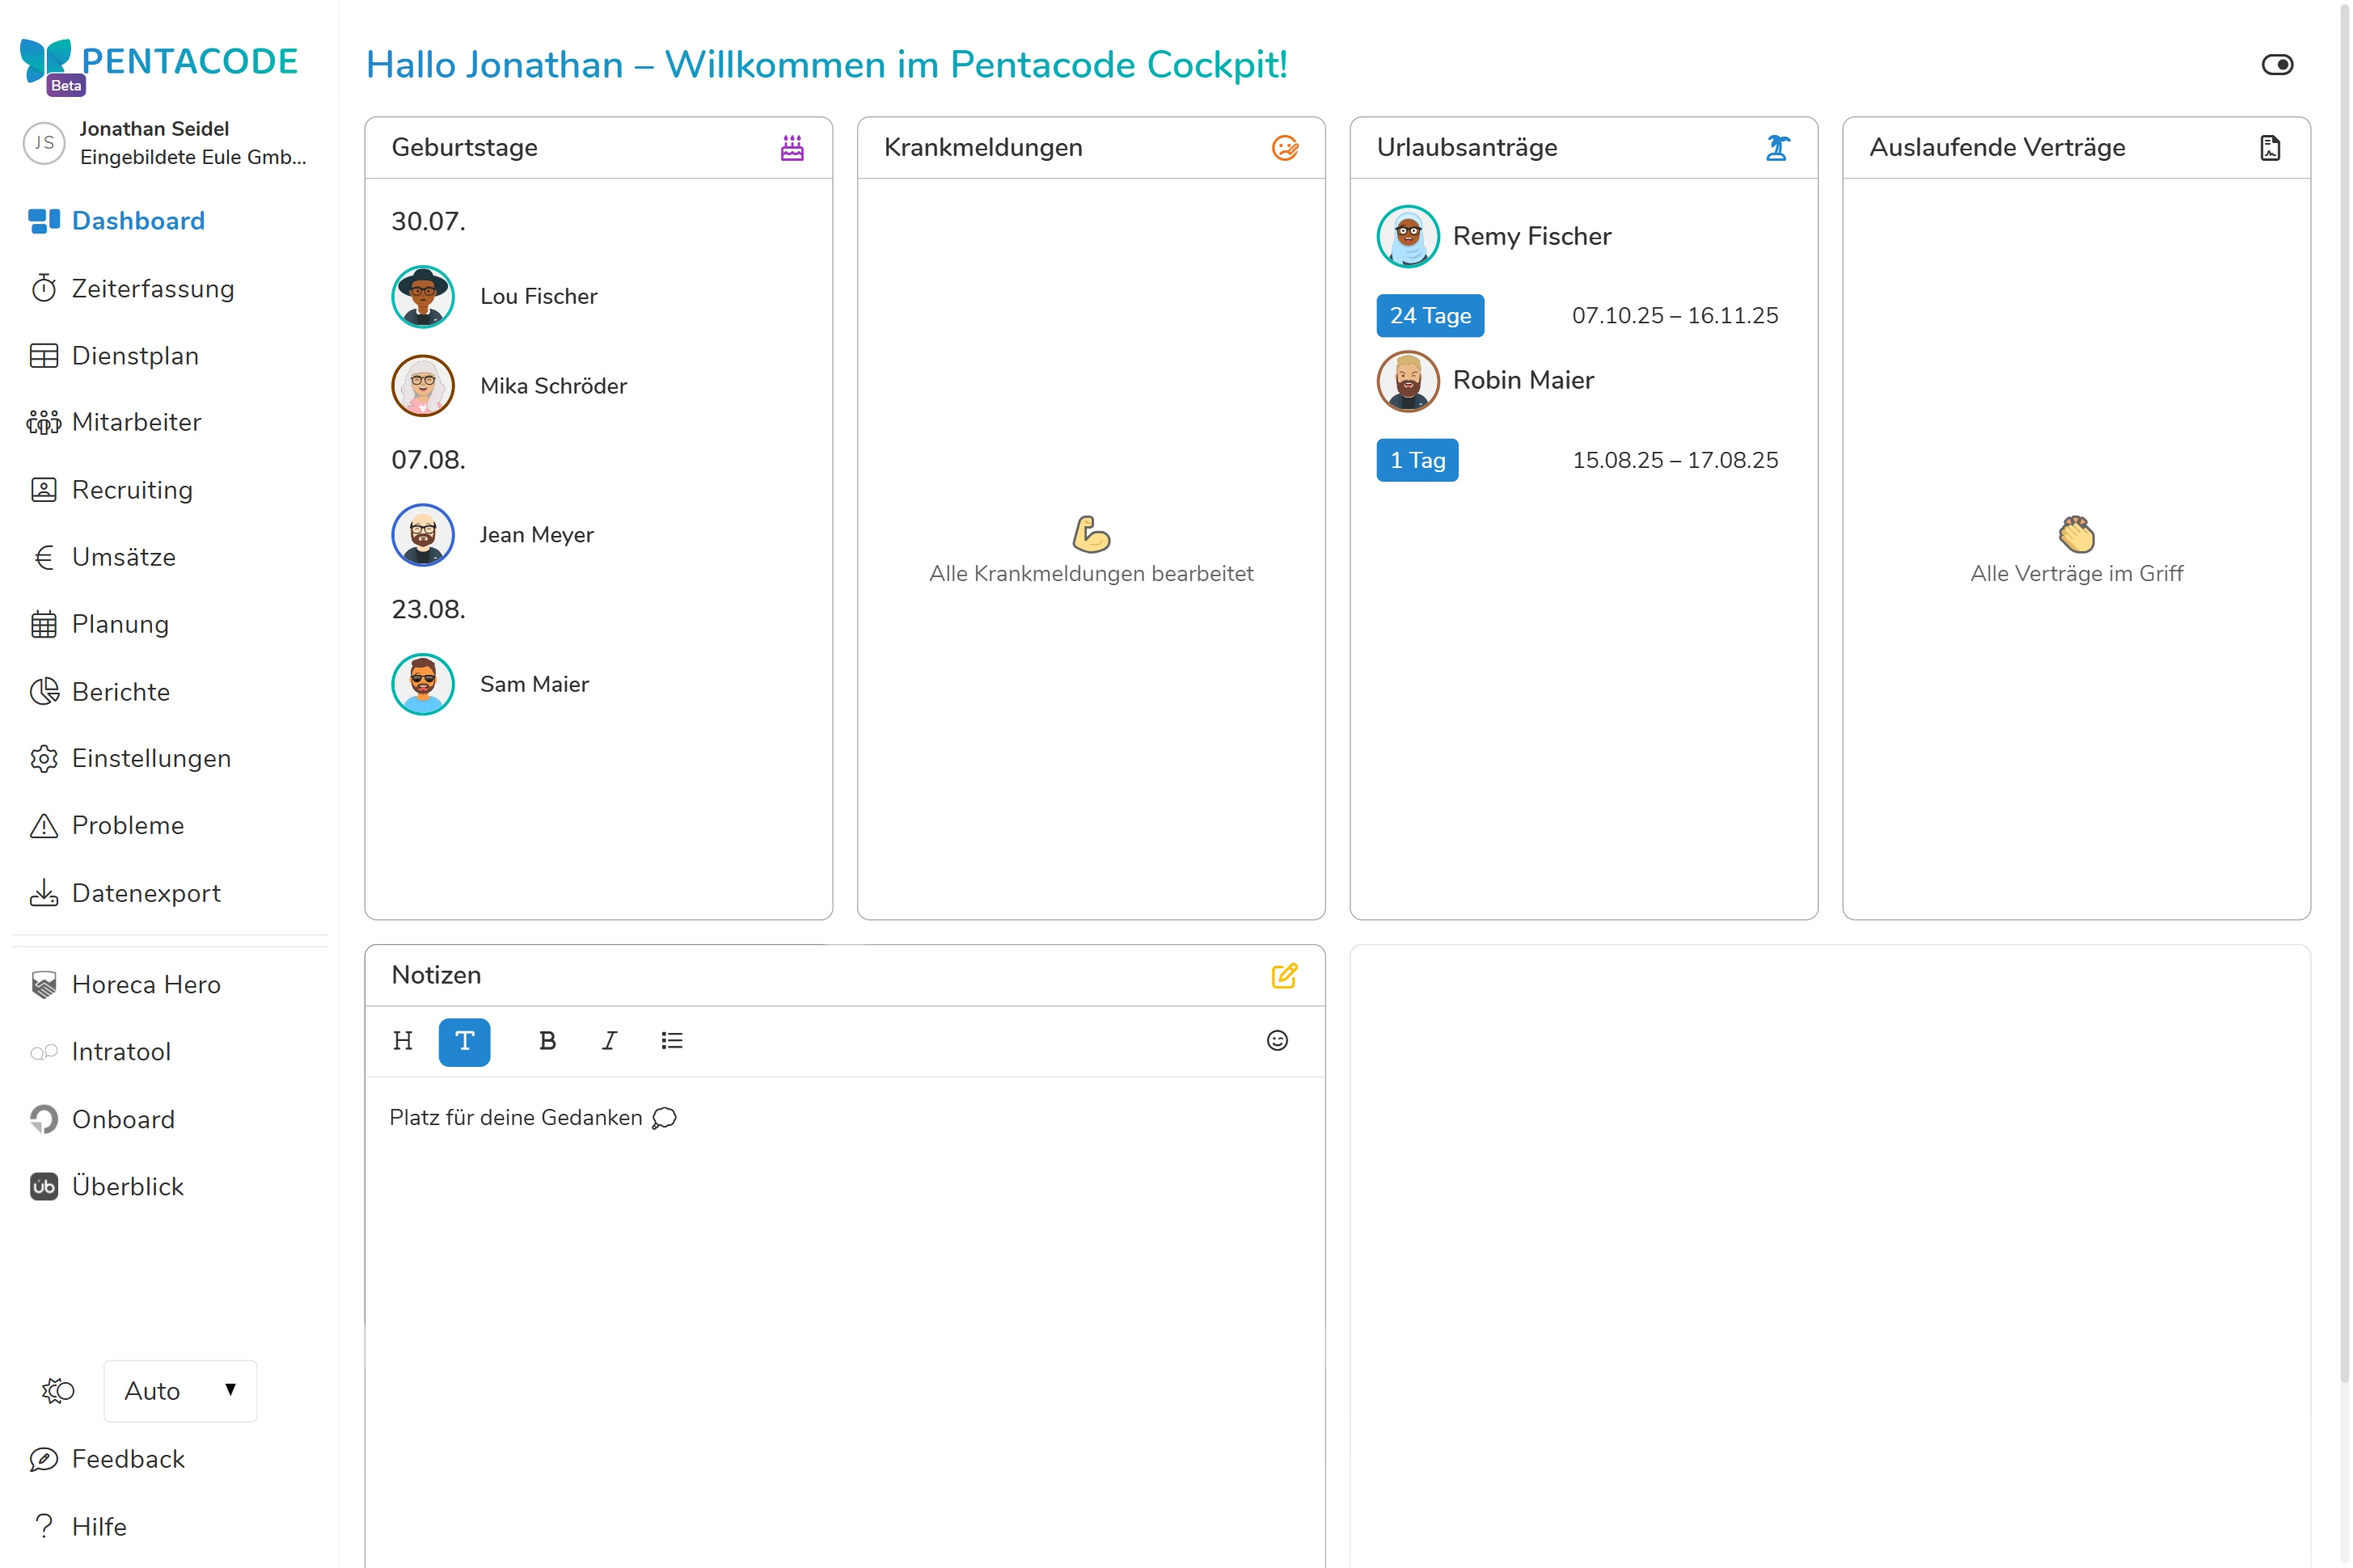
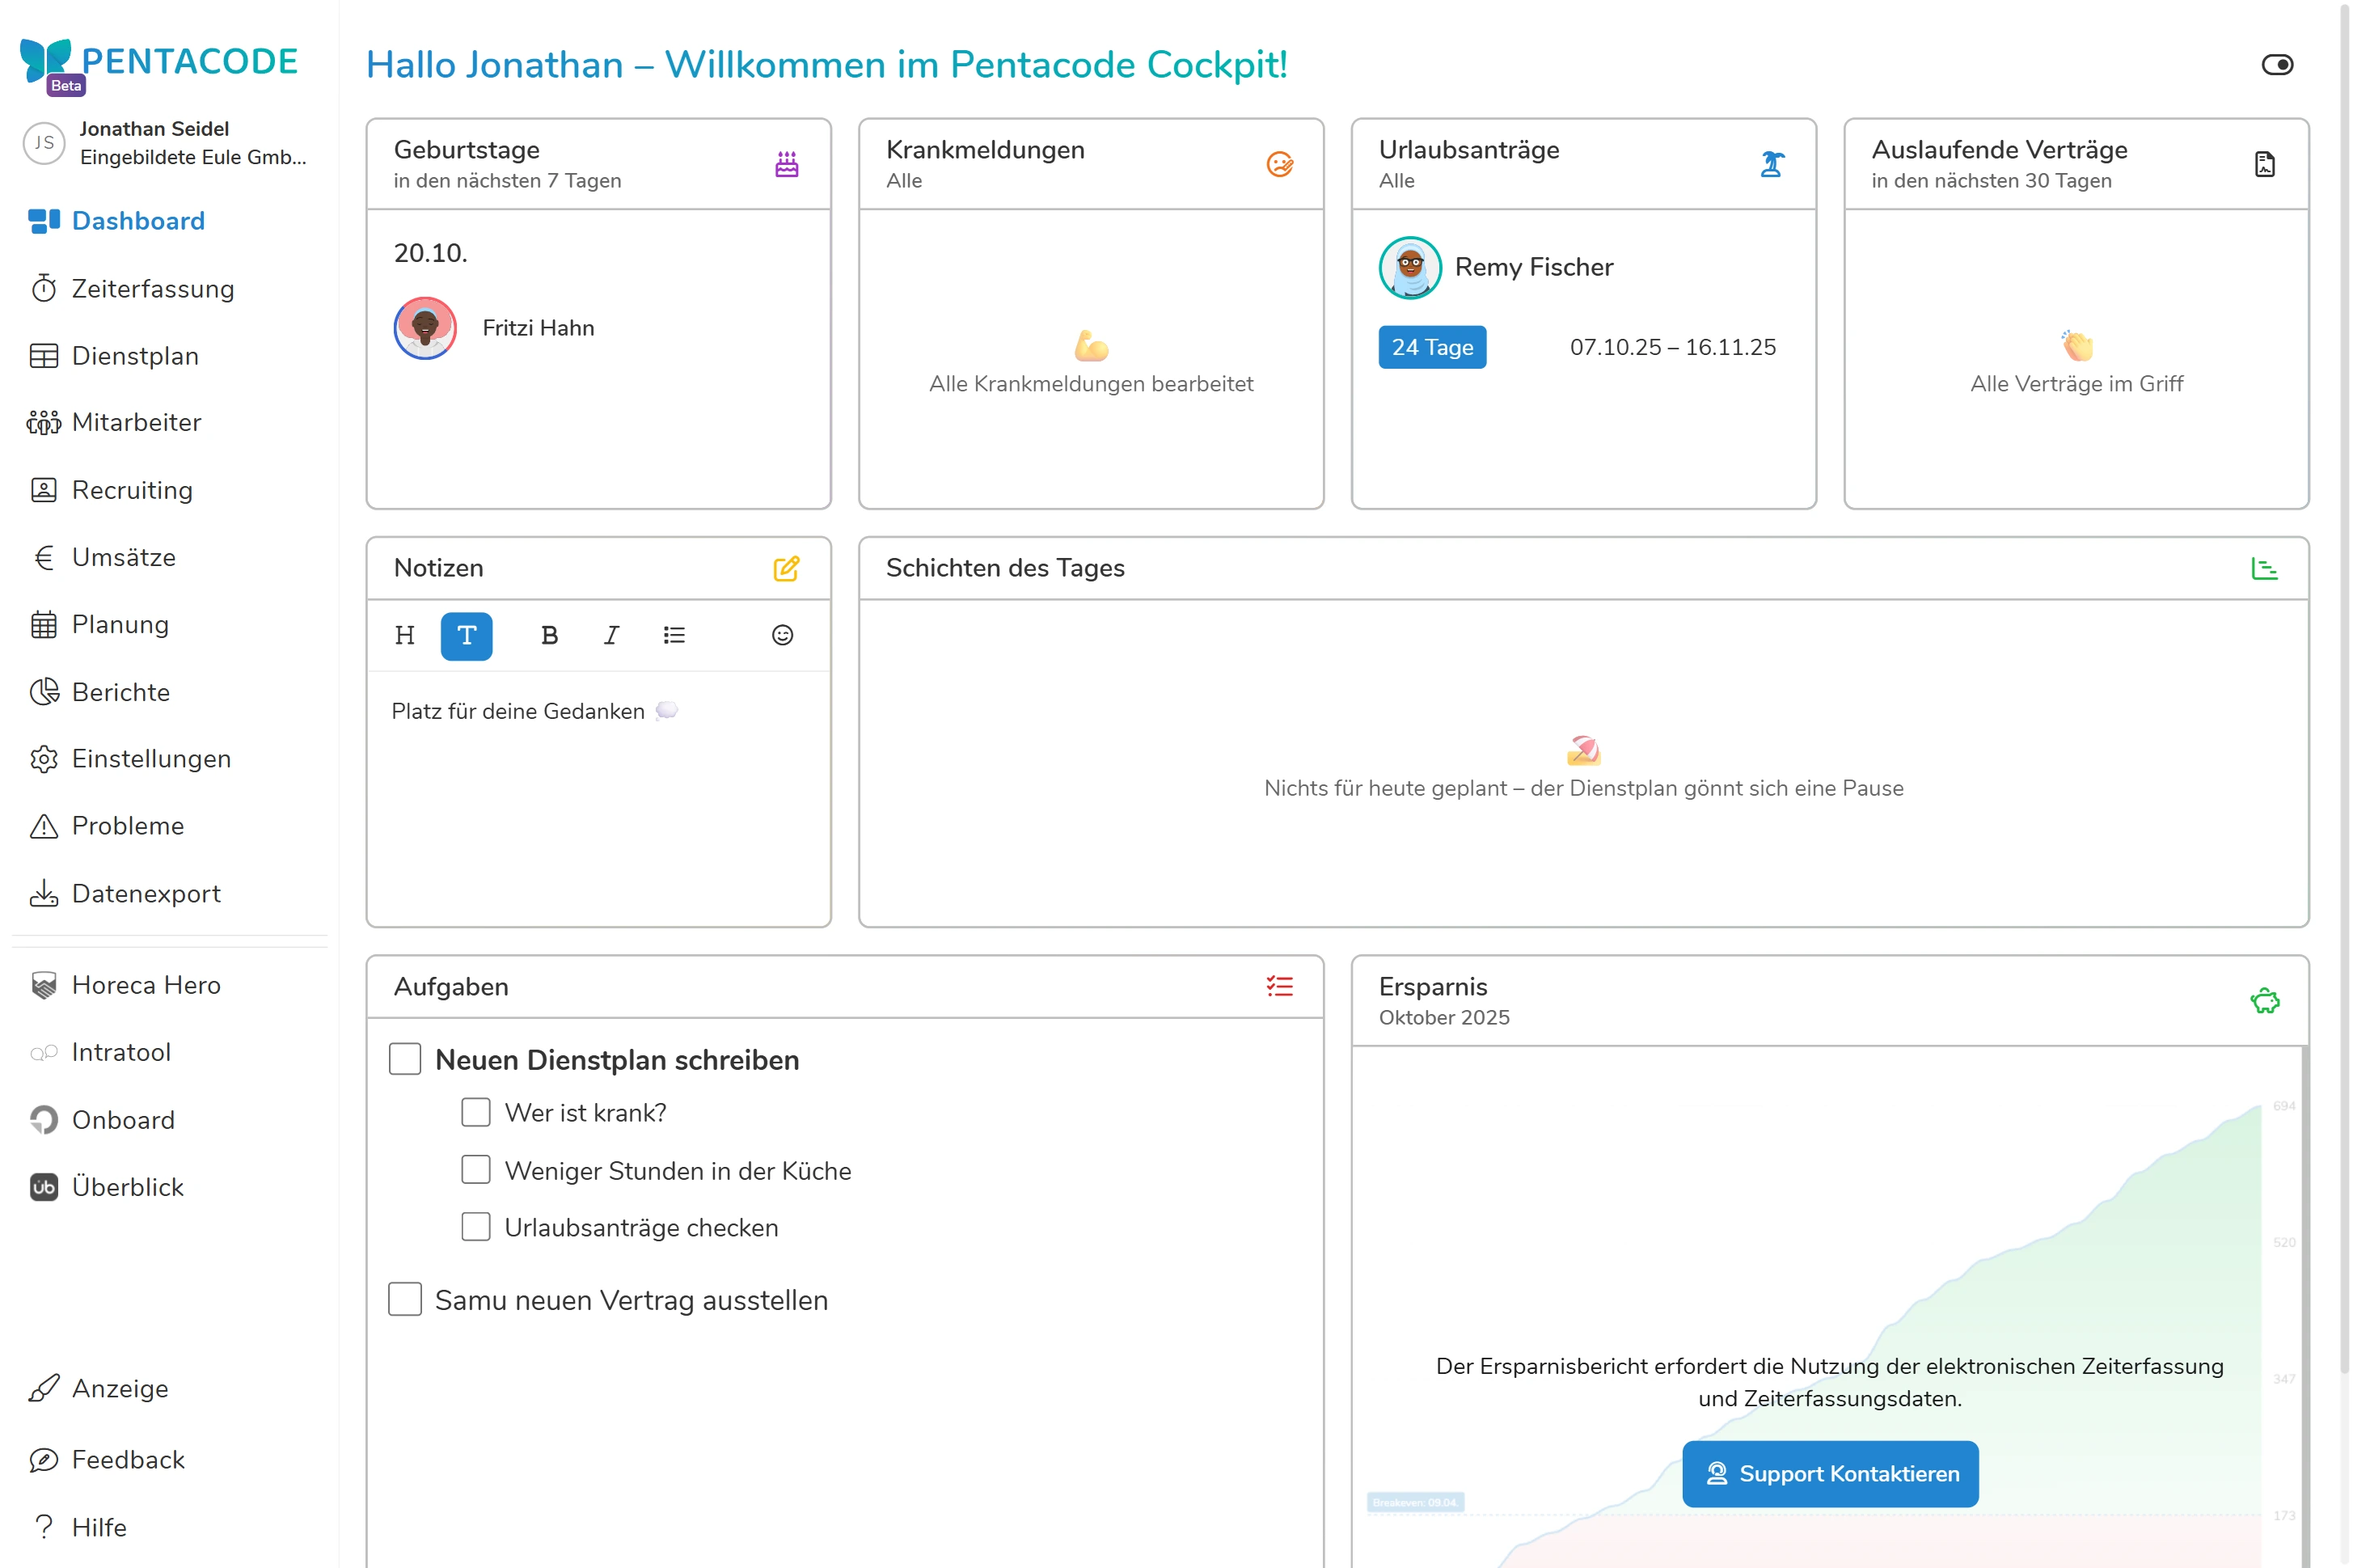
handbuch_änderungen

diff --git a/handbuch/dashboard/index.md b/handbuch/dashboard/index.md
@@ -7,7 +7,9 @@ icon: rectangles-mixed
 ---
 
 
-Das Dashboard in Pentacode dient als Ihr zentrales "Cockpit" für **Ihren** Betrieb und verschafft Ihnen einen schnellen Überblick über die wichtigsten Vorgänge in Ihrem Personalmanagement. Hier finden Sie **relevante** Informationen auf einen Blick und können direkt agieren.
+Das Dashboard in Pentacode dient als Ihr zentrales "Cockpit" für **Ihren Betrieb** und verschafft Ihnen einen **schnellen und personalisierbaren Überblick** über die wichtigsten
+Vorgänge in Ihrem Personalmanagement. Hier finden Sie relevante
+Informationen auf einen Blick und können direkt agieren.
 
 {% figure caption="Das neue Dashboard: Ihr zentrales Cockpit für alle wichtigen Personalvorgänge." %}
 <img src="dashboard.webp" />
@@ -17,11 +19,11 @@ Das Dashboard präsentiert Ihnen verschiedene Informationskacheln und macht Sie 
 
 ## Geburtstage
 
-Hier werden Ihnen die nächsten Geburtstage Ihrer Mitarbeiter angezeigt – so können Sie sicher sein, keinen mehr zu vergessen!
+Hier werden Ihnen die letzen und nächsten Geburtstage Ihrer Mitarbeiter angezeigt – so können Sie sicher sein, keinen mehr zu vergessen!
 
-## Krankenmeldungen
+## Krankmeldungen
 
-Auf der Kachel für **Krankenmeldungen** sehen Sie alle vorliegenden Krankenmeldungen Ihrer Mitarbeiter.
+Auf der Kachel für **Krankmeldungen** sehen Sie alle vorliegenden Krankenmeldungen Ihrer Mitarbeiter.
 Klicken Sie auf den Zeitraum einer Krankenmeldung in der Kachel, um diese **direkt im Cockpit zu öffnen**. Sie können die Meldung sofort genehmigen, ablehnen oder bearbeiten und wie gewohnt mit einem Kommentar versehen.
 
 ## Urlaubsanträge
@@ -39,18 +41,28 @@ Klicken Sie auf den **Mitarbeiternamen**, um sofort in dessen Profil zum Bereich
 
 Die Notizen bieten Platz für Ihre privaten Gedanken, Checklisten oder To-Do's.
 Diese werden automatisch gespeichert und stehen jedem Manager individuell bereit
-– es haben also nur Sie Einblick in Ihre Notizen!
+– **es haben also nur Sie Einblick in Ihre Notizen!**
 
 ## Schichten des Tages
 
 Die Tagesschichten zeigen Ihnen alle im heutigen Dienstplan veröffentlichten
-Schichten. Scrollen Sie von links nach rechts um alle Schichten über den Verlauf
+Schichten. Scrollen Sie von links nach rechts, um alle Schichten über den Verlauf
 des Tages zu sehen. Mit einem Klick auf Standorte und Abteilungen **können Sie
 diese ein- und ausklappen.**
 
 Ein Klick auf eine Schicht bringt Sie direkt in die
 [Dienstplanansicht](/site/handbuch/dienstplan/) und hebt die ausgewählte Schicht hervor - halten Sie dabei {% button icon="up", label="Shift" %} gedrückt und Sie landen im Arbeitszeitblatt des Mitarbeiters.
 
+## Aufgaben
+
+In der Aufgabenkachel können Sie ihr Aufgaben und To-Do's planen, ordnen und
+abhaken. Eingetragene Aufgaben werden automatisch gespeichert und stehen jedem Manager individuell bereit
+– **es haben also nur Sie Einblick in Ihre Aufgaben!**
+
+## Ersparnisbericht
+
+Der Ersparnisbericht zeigt Ihnen auf einen Blick wieviel Sie diesen Monat durch
+die Verwendung von Pentacode gespart haben.
 
 ## Dashboard anpassen
 
@@ -58,6 +70,7 @@ Ein Klick auf eine Schicht bringt Sie direkt in die
 Kacheln angezeigt werden sollen. Wählen Sie dazu einfach die Häkchen neben den
 Kachelnamen an- und ab. So behalten Sie stets den Fokus auf die für Sie
 relevantesten Informationen.
+
 Sie können ebenfalls die Anordnung der Kacheln ändern, indem Sie das {% icon "grip-vertical" %}-**Icon** mit der Maus festhalten und den jeweiligen Eintrag in eine neue Position ziehen. 
 
 Zusätzlich können Sie Einstellungen an den einzelnen Kacheln vornehmen. Fahren

diff --git a/mitarbeiter-app/index.md b/mitarbeiter-app/index.md
@@ -92,8 +92,10 @@ Zum Start werden Mitarbeitende über folgende Ereignisse benachrichtigt:
 - Änderungen an bestehenden Dienstplänen
 - Urlaubsantrag bearbeitet
 - Krankmeldung bearbeitet
+- Relevante Schicht wurde zum Tausch angeboten
 - Zum Tausch angebotene Schicht wurde übernommen
 - Dokument liegt zum Ausfüllen bereit
+- Neues Dokument wurde bereitgestellt
 
 
 ## Voraussetzungen
@@ -385,8 +387,8 @@ So melden Sie sich krank:
 4. **Optional** Fügen Sie eine Bemerkung für ihren Personaler hinzu.
 5. Mit **Abschicken** schicken Sie ihre Anfrage direkt an die Personalabteilung.
 
-> Sie können keine Krankmeldungen für vergangene Tage stellen - schicken Sie
-> deshalb stets eine Krankmeldung über Pentacode am gleichen Tag, selbst wenn
+> Krankmeldungen können nur bis zu 3 Tage rückwirkend gestellt werden - schicken Sie
+> deshalb stets frühzeitig eine Krankmeldung über Pentacode, selbst wenn
 > Sie ihren Personaler auf anderem Wege kontaktiert haben.
 
 ## Verfügbarkeiten

diff --git a/handbuch/mitarbeiter/stammdaten/index.md b/handbuch/mitarbeiter/stammdaten/index.md
@@ -17,7 +17,11 @@ Stammdaten-Übersicht zu gelangen, wählen Sie den Punkt **Mitarbeiter** aus dem
 
 ### Spaltenwahl
 
-Sie interessieren sich nur für bestimmte Informationen? Über den {% button icon="toggle-on" %} Button können Sie einzelne Spalten zur Anzeige an- oder abwählen.
+Sie interessieren sich nur für bestimmte Informationen? Über den {% button
+icon="toggle-on" %} Button können Sie einzelne Spalten zur Anzeige an- oder
+abwählen. Indem Sie das {% icon "grip-vertical" %}-**Icon** mit der Maus
+festhalten und den jeweiligen Eintrag in eine neue Position ziehen, können Sie
+auch die angezeigte Reihenfolge anpassen.  
 
 ### Stammdaten-Liste Drucken
 
